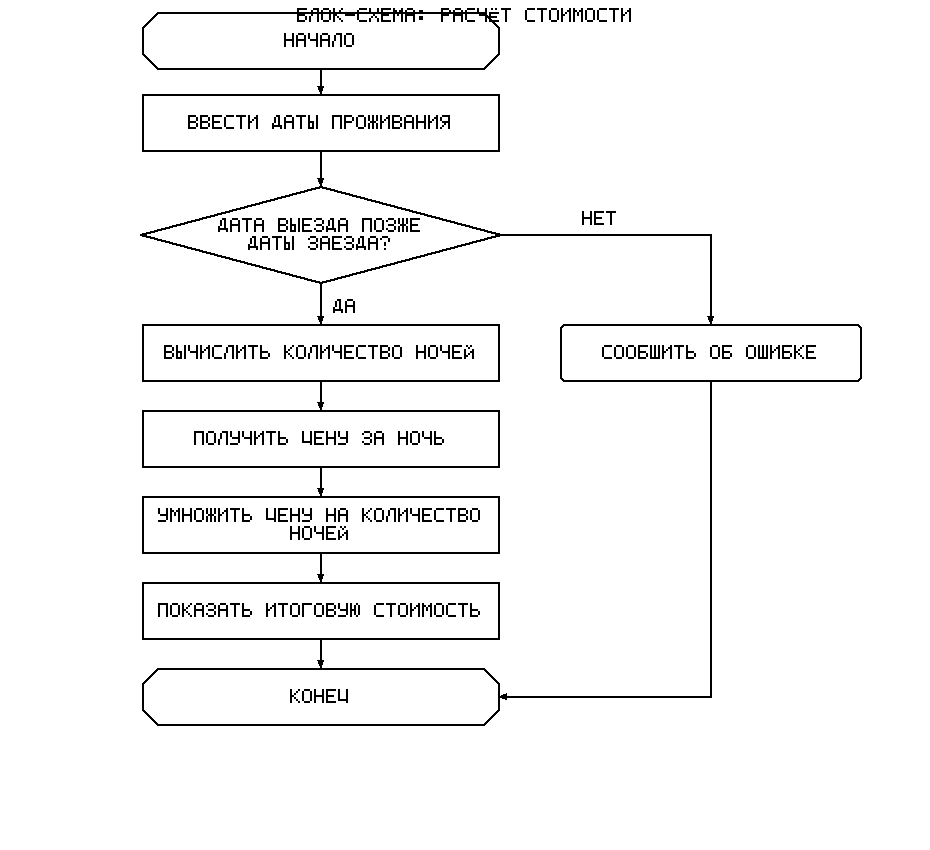
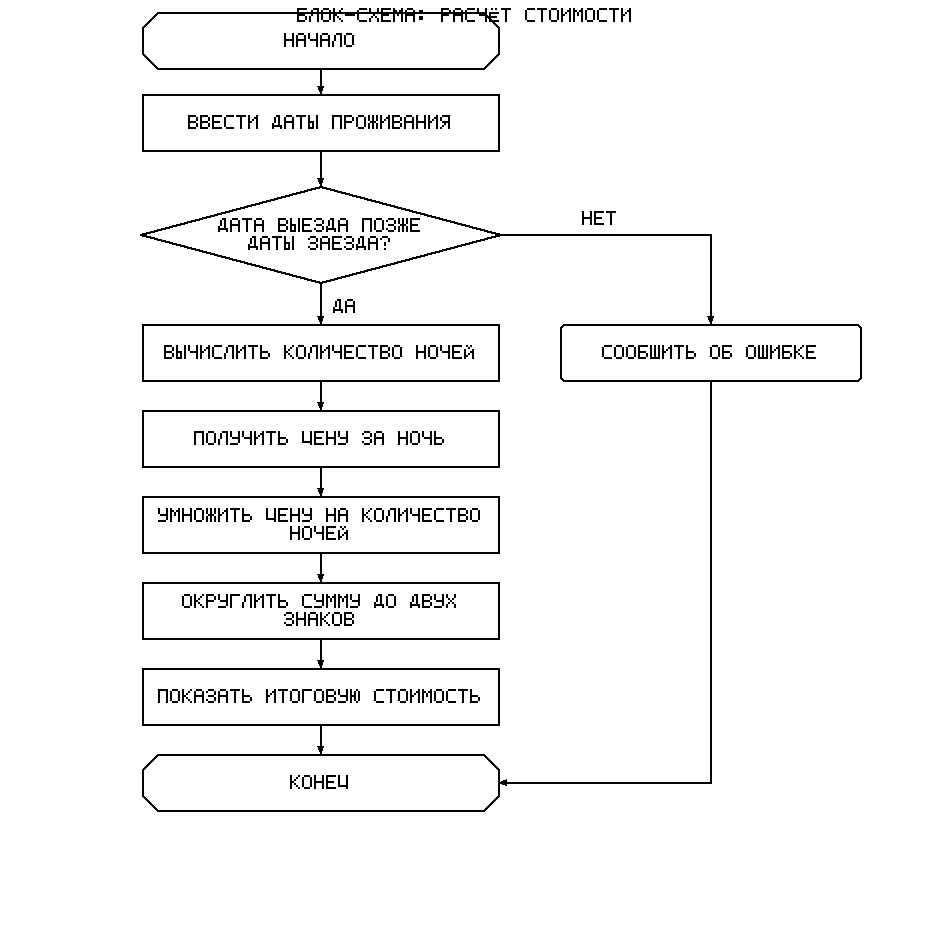
Update UML Activity and Mermaid diagrams

Changed region(s): [[0.1559, 0.0, 0.7796, 0.8871], [0.5925, 0.3365, 0.9355, 0.4588]]

diff --git a/lab1/docs/flowchart.md b/lab1/docs/flowchart.md
@@ -8,7 +8,8 @@ flowchart TD
     C -->|Да| E[Вычислить количество ночей]
     E --> F[Получить цену за ночь]
     F --> G[Умножить цену на количество ночей]
-    G --> I[Показать итоговую стоимость]
+    G --> H[Округлить сумму до двух знаков]
+    H --> I[Показать итоговую стоимость]
     I --> J([Конец])
     D --> J
 ```

diff --git a/lab1/docs/sequence.md b/lab1/docs/sequence.md
@@ -12,6 +12,7 @@ sequenceDiagram
     P-->>S: Результат оплаты
     alt Оплата успешна
         S-->>C: Подтвердить бронирование
+        C-->>S: Подтвердить получение
     else Оплата отклонена
         S-->>C: Сообщить об ошибке
     end
